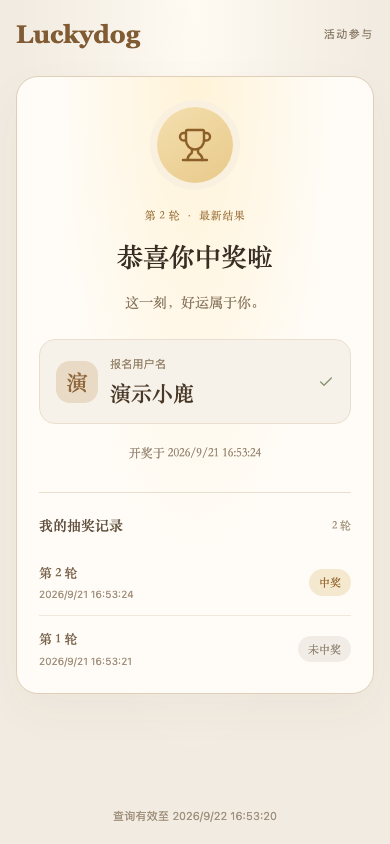
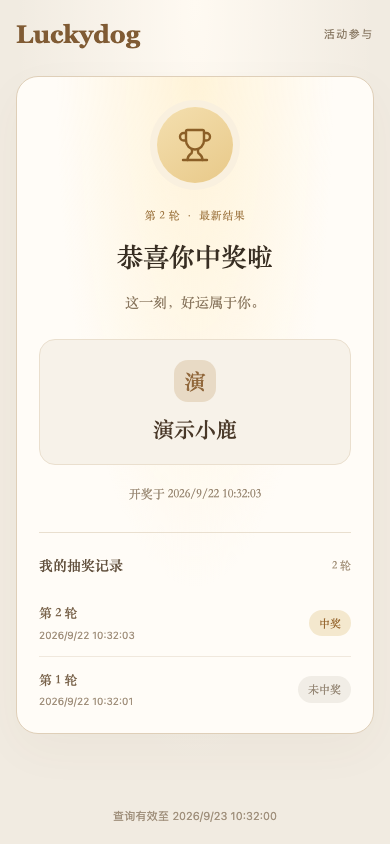
Simplify participant identity and clarify privacy disclosures

diff --git a/public/privacy.html b/public/privacy.html
@@ -9,28 +9,50 @@
   <style>
     body{font:16px/1.9 "Songti SC","STSong",Georgia,serif;color:#393127;background:#eee7dc;max-width:760px;margin:60px auto;padding:0 24px}
     article{background:#fffdf8;border:1px solid #dfd3c2;border-radius:24px;padding:32px;box-shadow:0 18px 50px #60492d12}
-    h1{line-height:1.3}a{color:#835b32;text-underline-offset:3px}li{margin:12px 0}
+    h1{line-height:1.3}h2{font-size:19px;margin-top:32px;line-height:1.5}.updated{color:#968675;font-size:13px;margin-top:30px}@media(max-width:600px){body{margin:20px auto;padding:0 14px}article{padding:24px 20px}h1{font-size:28px}h2{font-size:18px}ul{padding-left:22px}}a{color:#835b32;text-underline-offset:3px}li{margin:12px 0}
   </style>
 </head>
 <body>
   <article>
     <a href="./">← 回到抽奖</a>
-    <h1>你的报名，只用于这场抽奖。</h1>
-    <p>在线邀请报名会将参与者主动填写的用户名临时发送至本站分享服务。桌面版手动输入的名单仅在本机处理。</p>
+    <h1>隐私说明</h1>
+    <p>Luckydog 仅将报名与抽奖数据用于活动组织和本人结果查询。在线活动创建满 24 小时后停止访问，过期记录由服务自动清理。</p>
+
+    <h2>一、收集哪些数据，用于什么用途</h2>
     <ul>
-      <li>在线版当前以邀请报名作为名单入口，不提供手动名单和文件导入。</li>
-      <li>邀请报名会保存用户名和匿名浏览器标识。标识通过 Cookie 识别同一浏览器，用于限制重复报名，不能识别跨设备或清除 Cookie 后的同一人。同一邀请也不允许重复用户名。Cookie 最长保留 7 天；更换设备或清除 Cookie 后无法查询原身份。</li>
-      <li>邀请名单只有持有管理凭据的发起页面可读取。参与者只能查看自己提交的用户名。发起人从名单中移除用户时需要二次确认。</li>
-      <li>提前截止或自然到时后，参与页显示“报名已截止”和等待开奖提示；提前截止可在原截止时间之前恢复报名，时间到后不再提供恢复入口。</li>
-      <li>在线邀请活动开奖时会把中奖名单和抽奖时间写回活动记录，原二维码和链接只显示当前浏览器的本人各轮中奖或未中奖状态，未报名者只看到活动结束，不会收到其他人的姓名或完整中奖名单。继续抽奖会保留当前名单，并可能重复上一轮中奖者。</li>
-      <li>点击“清空返回”会二次确认并结束当前活动、重置发起页配置，不会删除历史记录。原邀请二维码及链接在原查询期内保持有效，新活动生成独立链接与二维码。活动创建后 24 小时内可查询本人结果，开奖后刷新或关闭发起页面不删除已同步的结果。未开奖且发起人停止续期约 90 秒后标为中断并停止报名，保留本人报名信息至查询期结束。</li>
-      <li>静态托管版本与离线桌面版不提供在线报名服务；桌面版仍在当前电脑保存手动名单。</li>
+      <li><strong>报名用户名</strong>：由参与者主动填写，用于生成活动名单与展示抽奖结果。请使用适合活动场景的昵称，避免填写无关的敏感信息。</li>
+      <li><strong>匿名浏览器标识</strong>：通过 HttpOnly Cookie 保存，用于限制同一浏览器重复报名，并识别本人报名与抽奖记录。</li>
+      <li><strong>每轮抽奖记录</strong>：保存开奖时间及中奖结果，用于活动期间的展示和后续本人查询。应用不使用广告、行为分析或统计 SDK。</li>
     </ul>
-    <h2>保留与清理</h2><p>活动创建满 24 小时立即禁止查询与修改。Sites 在后续 API 请求时自动清理过期记录，每个运行实例最多每小时触发一次；没有请求时物理删除可能延后。活动与每轮记录到期后由服务清理；重置本页配置不提前删除历史记录。管理凭据只在发起页面内存，刷新后无法恢复。兼容旧版独立公开结果分享接口仍使用约 90 秒在线租约，当前邀请流程不使用该接口。</p>
-    <h2>托管服务</h2>
-    <p>完整在线版由 Sites 托管，主动提交的报名与结果保存在托管 D1。托管方可能记录访问 IP 与请求日志，平台备份和恢复历史有单独的保留策略。应用不使用第三方广告或统计 SDK。</p>
-    <p>浏览器扩展、设备上的其他软件以及被修改的程序不在本应用控制范围内。请勿在公开 Issue 中粘贴真实人员名单。</p>
-    <p>更新于 2026 年 9 月 21 日</p>
+
+    <h2>二、谁可以查看这些数据</h2>
+    <ul>
+      <li>持有活动管理凭据的发起人可以查看完整参与名单与开奖结果。管理凭据只保留在发起页面内存中，刷新后不恢复管理权限。</li>
+      <li>参与者仅能查询本人用户名与每轮中奖或未中奖记录；未报名的访问者不会收到参与名单、他人姓名或完整中奖结果。</li>
+      <li>本人身份通过报名时的浏览器标识识别。更换设备、使用另一浏览器或清除 Cookie 后，无法识别原报名身份；不提供按姓名搜索个人记录的功能。</li>
+    </ul>
+
+    <h2>三、保存多久，如何清理</h2>
+    <ul>
+      <li><strong>活动记录</strong>：查询期限从活动创建时计算，共 24 小时。报名截止、再次抽奖、关闭发起页面或重置配置均不延长该期限。</li>
+      <li><strong>清空返回</strong>：只结束当前活动并重置发起页配置，不删除历史记录。原链接在原查询期内仍然有效，新活动使用新的链接与二维码。</li>
+      <li><strong>到期清理</strong>：创建满 24 小时后立即停止查询与修改。Sites 在后续服务请求中自动清理过期记录；没有请求时，实际删除可能延后。清理包括报名名单与每轮抽奖记录。</li>
+      <li><strong>浏览器标识</strong>：Cookie 最长保存 7 天，与活动记录的 24 小时查询期限分别管理。清除 Cookie 不会删除服务端尚未到期的活动记录。</li>
+    </ul>
+
+    <h2>四、托管服务与保留边界</h2>
+    <ul>
+      <li>在线页面和报名服务由 Sites 托管，报名数据与抽奖记录保存在其托管数据库中。</li>
+      <li>托管平台可能记录访问 IP、请求日志，并保留数据库备份或恢复历史。这些数据受平台自身规则管理，不等同于本应用的活动记录清理。</li>
+      <li>本说明描述 Luckydog 的数据处理方式，不代表托管平台对其全部数据处理作出的承诺。</li>
+    </ul>
+
+    <h2>五、桌面版及旧版分享</h2>
+    <ul>
+      <li>Windows / Mac 离线版在本机保存手动名单，不上传姓名或抽奖结果。名单会保留到用户主动清空，共用电脑请用完清空。</li>
+      <li>旧版主动公开的结果分享按发起页面在线状态失效，不适用在线邀请活动的个人记录查询规则。当前邀请流程不使用该公开分享方式。</li>
+    </ul>
+    <p class="updated">更新于 2026 年 9 月 22 日</p>
   </article>
 </body>
 </html>

diff --git a/tests/web/privacy.spec.ts b/tests/web/privacy.spec.ts
@@ -23,8 +23,8 @@ test('invitation lifecycle keeps the visitor informed and supports redraw or cle
  await expect(guestPage.locator('.join-notes')).toHaveCount(0);
  await expect(guestPage.getByText(/Cookie|更换设备/)).toHaveCount(0);
  await request.post(`/api/rooms/${id}/join`,{headers:{Cookie:`luckydog-voter=${'2'.padStart(48,'0')}`},data:{name:'待移除用户'}});
- await expect(page.getByLabel('实时参与名单')).toContainText('扫码来客');
- await expect(page.getByLabel('实时参与名单')).toContainText('待移除用户');
+ await expect(page.locator('.participant-card-grid')).toContainText('扫码来客');
+ await expect(page.locator('.participant-card-grid')).toContainText('待移除用户');
  await page.getByRole('button',{name:'截止报名'}).click();
  await expect(page.getByRole('dialog')).toContainText('距离自动截止还有');
  await page.getByRole('button',{name:'继续报名'}).click();
@@ -83,7 +83,7 @@ test('copy reports success only in a toast',async({page,context})=>{
  await createInvite(page);
  await page.getByRole('button',{name:'复制链接'}).click();
  await expect(page.locator('.toast-success')).toHaveText(/邀请链接复制成功/);
- await expect(page.locator('.share-link small')).not.toContainText('已复制');
+ await expect(page.locator('.share-link small')).toHaveCount(0);
 });
 
 test('product manual is available from the top right',async({page})=>{
@@ -100,7 +100,7 @@ test('product manual is available from the top right',async({page})=>{
 test('large live roster uses compact cards and keeps the draw action visible',async({page,request})=>{
  const url=await createInvite(page);const id=/#join=([a-f0-9]{48})$/.exec(url)![1];
  for(let i=1;i<=36;i++) await request.post(`/api/rooms/${id}/join`,{headers:{Cookie:`luckydog-voter=${i.toString(16).padStart(48,'0')}`},data:{name:`参与者${i}`}});
- await expect(page.getByLabel('实时参与名单').locator('> div')).toHaveCount(36,{timeout:10000});
+ await expect(page.locator('.participant-card-grid .participant-card')).toHaveCount(36,{timeout:10000});
  await page.getByRole('button',{name:'截止报名'}).click();await page.getByRole('button',{name:'确认截止'}).click();await page.getByRole('button',{name:'确认名单',exact:true}).click();
  await expect(page.locator('.participant-card')).toHaveCount(36);
  await expect(page.locator('.participant-card-grid')).toHaveClass(/dense/);
@@ -267,10 +267,11 @@ for(const viewport of [{width:320,height:640},{width:768,height:600},{width:1024
  test(`full host flow fits ${viewport.width}x${viewport.height}`,async({page,request})=>{
   await page.setViewportSize(viewport);const url=await createInvite(page);
   await page.getByRole('button',{name:'查看信息安全说明'}).focus();
-  await expect(page.getByRole('tooltip').filter({hasText:'数据保护说明'})).toBeVisible();
+  await expect(page.getByRole('tooltip').filter({hasText:'名单由 Sites 临时托管'})).toBeVisible();
   expect(await page.evaluate(()=>document.documentElement.scrollWidth<=innerWidth)).toBe(true);
   await page.getByRole('button',{name:'复制链接'}).focus();const id=/#join=([a-f0-9]{48})$/.exec(url)![1];
-  await expect(page.getByText('分享邀请',{exact:true})).toHaveCount(0);await expect(page.locator('.ready-dot')).toHaveCount(0);
+  await expect(page.getByText('分享邀请',{exact:true})).toHaveCount(0);
+  await expect(page.locator('.live-roster,.live-roster-heading,.share-link small')).toHaveCount(0);await expect(page.locator('.ready-dot')).toHaveCount(0);
   await expect(page.getByRole('button',{name:'清空本次活动',exact:true})).toHaveCount(0);
   await request.post(`/api/rooms/${id}/join`,{data:{name:'虚构窗口体验者'}});
   await page.getByRole('button',{name:'截止报名'}).click();await page.getByRole('button',{name:'确认截止'}).click();
@@ -294,6 +295,10 @@ test('participant state layouts use consistent identity and separate footer text
   state={...state,state:status,open:status==='open',personalResult:status==='drawn'?{round:1,won:true,timestamp:Date.now()}:undefined,history:status==='drawn'?[{round:1,won:true,timestamp:Date.now()}]:undefined};
   await expect(page.getByRole('heading',{name:title,exact:true})).toBeVisible();
   await expect(page.locator('.guest-identity strong')).toHaveText(state.participant.name);
+  await expect(page.getByText('报名用户名',{exact:true})).toHaveCount(0);
+  await expect(page.locator('.guest-identity svg')).toHaveCount(0);
+  expect(await page.locator('.guest-identity').evaluate(el=>getComputedStyle(el).textAlign)).toBe('center');
+  if(status==='closed') await expect(page.locator('.guest-card h1 + .guest-description')).toHaveText('请等待发起人公布抽奖结果。');
   await expect(page.locator('.join-notes')).toHaveCount(0);
   await expect(page.locator('.guest-card')).not.toContainText('查询有效至');
   await expect(page.locator('.guest-footer')).toContainText('查询有效至');

diff --git a/components/SharedPage.tsx b/components/SharedPage.tsx
@@ -1,5 +1,5 @@
 import React, { useEffect, useState } from 'react';
-import { Check, Clock3, Trophy, Sparkles, CircleSlash, WifiOff, LoaderCircle } from 'lucide-react';
+import { Clock3, Trophy, Sparkles, CircleSlash, WifiOff, LoaderCircle } from 'lucide-react';
 import { api, ApiError } from '../services/sharing';
 import type { DrawResult } from '../types';
 
@@ -13,7 +13,7 @@ const countdown=(milliseconds:number)=>{const seconds=Math.max(0,Math.ceil(milli
 const time=(timestamp:number)=>new Date(timestamp).toLocaleString('zh-CN');
 
 function GuestIdentity({name}:{name:string}) {
- return <div className="guest-identity"><span className="guest-avatar" aria-hidden="true">{Array.from(name.trim())[0]}</span><div><span className="guest-identity-label">报名用户名</span><strong>{name}</strong></div><Check size={16} aria-label="已报名"/></div>;
+ return <div className="guest-identity"><span className="guest-avatar" aria-hidden="true">{Array.from(name.trim())[0]}</span><strong>{name}</strong></div>;
 }
 
 export function SharedPage({kind,id}:{kind:string;id:string}) {
@@ -75,15 +75,16 @@ export function SharedPage({kind,id}:{kind:string;id:string}) {
   const closed=!registrationOpen;
   const title=ended?'活动已结束':interrupted?'活动已中断':closed?'报名已截止':self?'报名成功':'加入这场好运';
   content=<section className="guest-card">
-   <div className={`guest-state-icon ${ended||interrupted?'muted':self?'success':''}`}>{ended||interrupted?<CircleSlash/>:self?<Check/>:<Clock3/>}</div>
+   {(!self||closed)&&<div className={`guest-state-icon ${ended||interrupted?'muted':''}`}>{ended||interrupted?<CircleSlash/>:<Clock3/>}</div>}
    <h1>{title}</h1>
+   {ended?<p className="guest-description">本次活动已结束，未进行开奖。</p>:interrupted?<p className="guest-description">本次活动未完成开奖，请联系发起人。</p>:closed?<p className="guest-description">{self?'请等待发起人公布抽奖结果。':'本次报名已截止，暂未开奖。'}</p>:null}
    {self&&<GuestIdentity name={self.name}/>}
-   {ended?<p className="guest-description">本次活动已结束，未进行开奖。</p>:interrupted?<p className="guest-description">本次活动未完成开奖，请联系发起人。</p>:closed?<p className="guest-description">{self?'请等待发起人公布抽奖结果。':'本次报名已截止，暂未开奖。'}</p>:self?<p className="guest-caption">本页会在开奖后自动显示本人结果。</p>:<>
+   {registrationOpen&&(self?<p className="guest-caption">本页会在开奖后自动显示本人结果。</p>:<>
     <p className="guest-description">填写用户名，给自己一份好运。</p>
     <div className="guest-countdown" role="timer"><Clock3 size={16}/><span>报名截止倒计时</span><strong>{countdown(room.joinExpires-now)}</strong></div>
     <form onSubmit={async event=>{event.preventDefault();setBusy(true);setError('');try{await api(`rooms/${encodeURIComponent(id)}/join`,'POST',{name});setRoom(current=>current?{...current,participant:{name:name.trim()}}:current);}catch(caught){setError((caught as Error).message);}finally{setBusy(false);}}}><label htmlFor="guest-name">用户名</label><input id="guest-name" placeholder="你希望被叫到的名字" autoComplete="nickname" required maxLength={80} value={name} onChange={event=>setName(event.target.value)} disabled={busy}/><button className="import-button" disabled={busy||!name.trim()}>{busy?'正在提交…':'确认参与'}</button></form>
     <ol className="join-notes"><li>请填写用于抽奖的用户名。</li><li>提交成功后等待发起人开奖。</li><li>原二维码和链接会在开奖后显示本人结果。</li></ol>
-   </>}
+   </>)}
    {error&&<p role="alert" className="inline-error">{error}</p>}
   </section>;
  }else if(result){

diff --git a/index.css b/index.css
@@ -311,14 +311,6 @@ button:focus-visible, a:focus-visible, input:focus-visible, textarea:focus-visib
 .qr-frame img { display:block; border-radius:10px; }
 .qr-frame > span { position:absolute; inset:0; display:grid; place-items:center; text-align:center; border-radius:10px; color:#795b3d; background:#f8f1e8df; font-size:13px; font-weight:700; line-height:1.8; }
 .share-link-expired input { color:#a18f7a; background:#eee8df; text-decoration:line-through; }
-.live-roster-heading { display:flex; align-items:center; justify-content:space-between; padding-top:4px; border-top:1px solid #e9ded0; }
-.live-roster-heading strong { font-size:12px; }
-.live-roster-heading span { padding:4px 8px; border-radius:999px; color:#7c5b37; background:#eee2d1; font-size:10px; }
-.live-roster { min-height:70px; flex:1; overflow:auto; border:1px solid #eadfd1; border-radius:11px; background:#fffdf9; }
-.live-roster > div { display:grid; grid-template-columns:38px minmax(0,1fr); padding:8px 10px; border-bottom:1px solid #f0e7db; font-size:11px; }
-.live-roster > div span { color:#ad916f; font-family:Georgia,serif; }
-.live-roster > div strong { min-width:0; overflow-wrap:anywhere; color:#4a4035; font-size:11px; }
-.live-roster > p { display:grid; min-height:68px; place-items:center; color:#ad9d89; }
 
 /* Live participant wall */
 .idle-state { width:100%; height:100%; min-height:0; }
@@ -417,11 +409,9 @@ button:focus-visible, a:focus-visible, input:focus-visible, textarea:focus-visib
 @keyframes guest-spin { to { transform:rotate(360deg); } }
 .guest-description { margin:0 0 22px; color:#8a775f; font-size:14px; line-height:1.9; overflow-wrap:anywhere; }
 .guest-caption { margin:18px 0 0; color:#9a8974; font-size:12px; line-height:1.8; }
-.guest-identity { display:grid; grid-template-columns:48px minmax(0,1fr) 16px; gap:14px; align-items:center; padding:20px; margin:24px 0 0; text-align:left; border:1px solid #eadfce; border-radius:16px; background:#f7f2e9; }
+.guest-identity { display:flex; flex-direction:column; gap:14px; align-items:center; padding:24px 20px; margin:24px 0 0; text-align:center; border:1px solid #eadfce; border-radius:16px; background:#f7f2e9; }
 .guest-avatar { display:grid; place-items:center; width:48px; height:48px; border-radius:16px; background:#e8dac5; color:#91683c; font-size:23px; font-weight:700; }
-.guest-identity-label { display:block; margin-bottom:6px; color:#9a886f; font:11px/1.4 -apple-system,BlinkMacSystemFont,"Segoe UI",sans-serif; }
-.guest-identity strong { display:block; font-size:23px; line-height:1.4; color:#493828; overflow-wrap:anywhere; }
-.guest-identity > svg { color:#869473; }
+.guest-identity strong { display:block; max-width:100%; font-size:23px; line-height:1.4; color:#493828; overflow-wrap:anywhere; }
 .guest-card form { display:flex; flex-direction:column; gap:12px; text-align:left; }
 .guest-card form label { font-size:12px; color:#79644b; }
 .guest-card input { width:100%; min-width:0; min-height:48px; padding:12px 14px; border:1px solid #d9c7ac; border-radius:12px; background:#fffefa; color:#483729; font-size:16px; }
@@ -450,7 +440,7 @@ button:focus-visible, a:focus-visible, input:focus-visible, textarea:focus-visib
  .participant-page { padding:20px 16px 18px; }
  .guest-topbar { margin-bottom:28px; }
  .guest-card { padding:30px 22px 24px; border-radius:22px; }
- .guest-identity { padding:16px; gap:12px; grid-template-columns:42px minmax(0,1fr) 16px; }
+ .guest-identity { padding:20px 16px; gap:12px; }
  .guest-avatar { width:42px; height:42px; border-radius:14px; font-size:21px; }
  .guest-identity strong { font-size:21px; }
  .privacy-banner { flex-wrap:wrap; justify-content:flex-start; gap:6px 10px; }

diff --git a/components/ParticipantSetup.tsx b/components/ParticipantSetup.tsx
@@ -80,9 +80,7 @@ export function ParticipantSetup({participants,setParticipants,locked,onReady,on
    <div className="method-content invite-only-content">
     {isDesktop?<div className="names-block"><textarea aria-label="参与名单" placeholder={'张三\n李四'} value={manualText} onChange={event=>setManualText(event.target.value)}/></div>:<div className="invite-box">{room?<>
       <div className={`registration-status ${registrationOpen?'is-open':'is-closed'}`}><Clock3 size={15}/><span>{unavailable?'活动已中断或过期':registrationOpen?'报名进行中':'报名已截止'}</span><b>{registrationOpen?countdown(room.joinExpires-now):new Date(room.joinExpires).toLocaleTimeString('zh-CN',{hour:'2-digit',minute:'2-digit'})}</b></div>
-      <ShareLink url={shareUrl('join',room.id)} validity={`${new Date(room.joinExpires).toLocaleTimeString('zh-CN',{hour:'2-digit',minute:'2-digit'})} 报名截止 · 创建后 24 小时内可查询`} onCopied={()=>setSuccess('邀请链接复制成功')} onError={setError}/>
-      <div className="live-roster-heading"><strong>参与名单</strong><span>已报名 {participants.length} 人</span></div>
-      <div className="live-roster" aria-label="实时参与名单">{participants.length?participants.map((participant,index)=><div key={participant.id}><span>{String(index+1).padStart(2,'0')}</span><strong>{participant.name}</strong></div>):<p>等待第一位参与者报名</p>}</div>
+      <ShareLink url={shareUrl('join',room.id)} validity="" onCopied={()=>setSuccess('邀请链接复制成功')} onError={setError}/>
      </>:<><strong>邀请朋友参与抽奖</strong><ol><li>选择报名时长，生成二维码与链接。</li><li>参与者提交用户名后，名单会实时出现。</li><li>到期自动截止，也可以随时提前截止。</li></ol><fieldset className="invite-duration"><legend>报名时长</legend><div>{[5,10,30].map(minutes=><button type="button" key={minutes} aria-pressed={duration===minutes} onClick={()=>setDuration(minutes)}>{minutes} 分钟</button>)}</div></fieldset></>}
     </div>}
    </div>

diff --git a/components/ShareLink.tsx b/components/ShareLink.tsx
@@ -3,5 +3,5 @@ import QRCode from 'qrcode';
 export function ShareLink({url,validity='链接仅在发起页面打开时有效',disabled=false,onCopied,onError}: {url:string;validity?:string;disabled?:boolean;onCopied?:()=>void;onError?:(message:string)=>void}) {
  const [qr,setQr]=useState(''); const [notice,setNotice]=useState('');
  useEffect(()=>{ let active=true; QRCode.toDataURL(url,{width:200,margin:2,color:{dark:'#493524',light:'#fffdf8'}}).then(value=>{if(active)setQr(value);}).catch(()=>setNotice('二维码生成失败，请复制链接')); return()=>{active=false;}; },[url]);
- return <div className={`share-link ${disabled?'share-link-expired':''}`}><div className="qr-frame">{qr && <img src={qr} alt="扫描二维码打开分享链接" width="160" height="160"/>}{disabled&&<span>报名已截止<br/>二维码已失效</span>}</div><input aria-label="分享链接" readOnly disabled={disabled} value={url} onFocus={e=>e.target.select()}/><button disabled={disabled} onClick={async()=>{try{await navigator.clipboard.writeText(url);onCopied?.();}catch{onError?.('复制失败，请手动选择链接');}}}>复制链接</button><small>{disabled?'此链接已失效':notice||validity}</small></div>;
+ return <div className={`share-link ${disabled?'share-link-expired':''}`}><div className="qr-frame">{qr && <img src={qr} alt="扫描二维码打开分享链接" width="160" height="160"/>}{disabled&&<span>报名已截止<br/>二维码已失效</span>}</div><input aria-label="分享链接" readOnly disabled={disabled} value={url} onFocus={e=>e.target.select()}/><button disabled={disabled} onClick={async()=>{try{await navigator.clipboard.writeText(url);onCopied?.();}catch{onError?.('复制失败，请手动选择链接');}}}>复制链接</button>{(disabled||notice||validity)&&<small>{disabled?'此链接已失效':notice||validity}</small>}</div>;
 }

diff --git a/App.tsx b/App.tsx
@@ -109,8 +109,8 @@ const App: React.FC = () => {
       {!isDesktop && privacyVisible && (
         <div className="privacy-banner" role="status">
           <ShieldCheck size={16} />
-          <span className="privacy-summary">个人信息仅用于活动报名与抽奖，参与者仅可查询本人记录。
-            <span className="info-bubble privacy-info"><button aria-label="查看信息安全说明" aria-describedby="privacy-details"><Info size={15}/></button><span id="privacy-details" role="tooltip">数据保护说明：报名用户名、匿名浏览器标识和抽奖记录由 Sites 托管服务处理。完整名单仅向持管理凭据的发起人开放，参与者只能查询本人记录。活动创建满 24 小时后停止访问，过期数据由服务自动清理。不使用广告或行为分析 SDK；平台日志与备份保留规则详见隐私说明。</span></span>
+          <span className="privacy-summary">数据仅用于报名与抽奖，创建满 24 小时后停止查询并自动清理。
+            <span className="info-bubble privacy-info"><button aria-label="查看信息安全说明" aria-describedby="privacy-details"><Info size={15}/></button><span id="privacy-details" role="tooltip">名单由 Sites 临时托管，参与者仅可查看本人记录；过期清理及平台日志、备份规则详见隐私说明。</span></span>
           </span>
           <a href="./privacy.html" target="_blank" rel="noopener noreferrer">隐私说明</a>
           <a href="https://github.com/Jadey-ovo/luckydog/releases/latest" target="_blank" rel="noopener noreferrer">下载桌面版</a>
